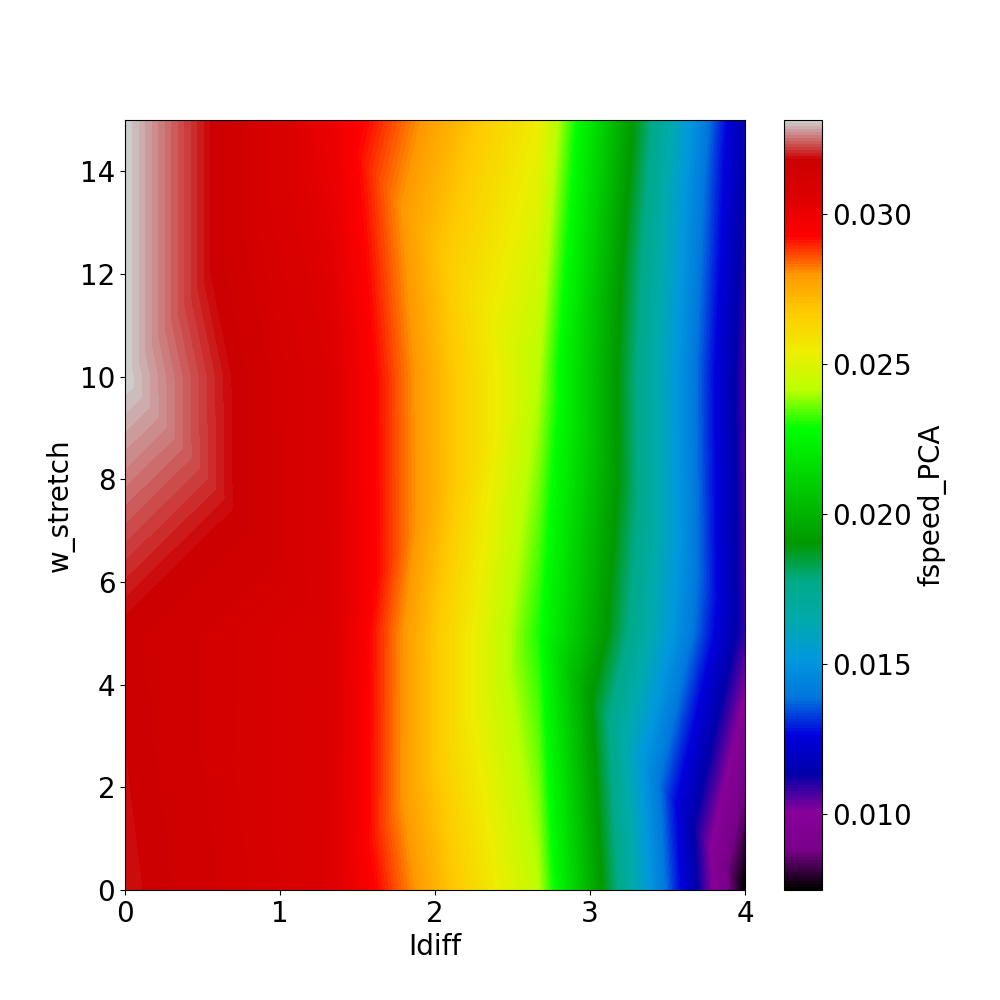
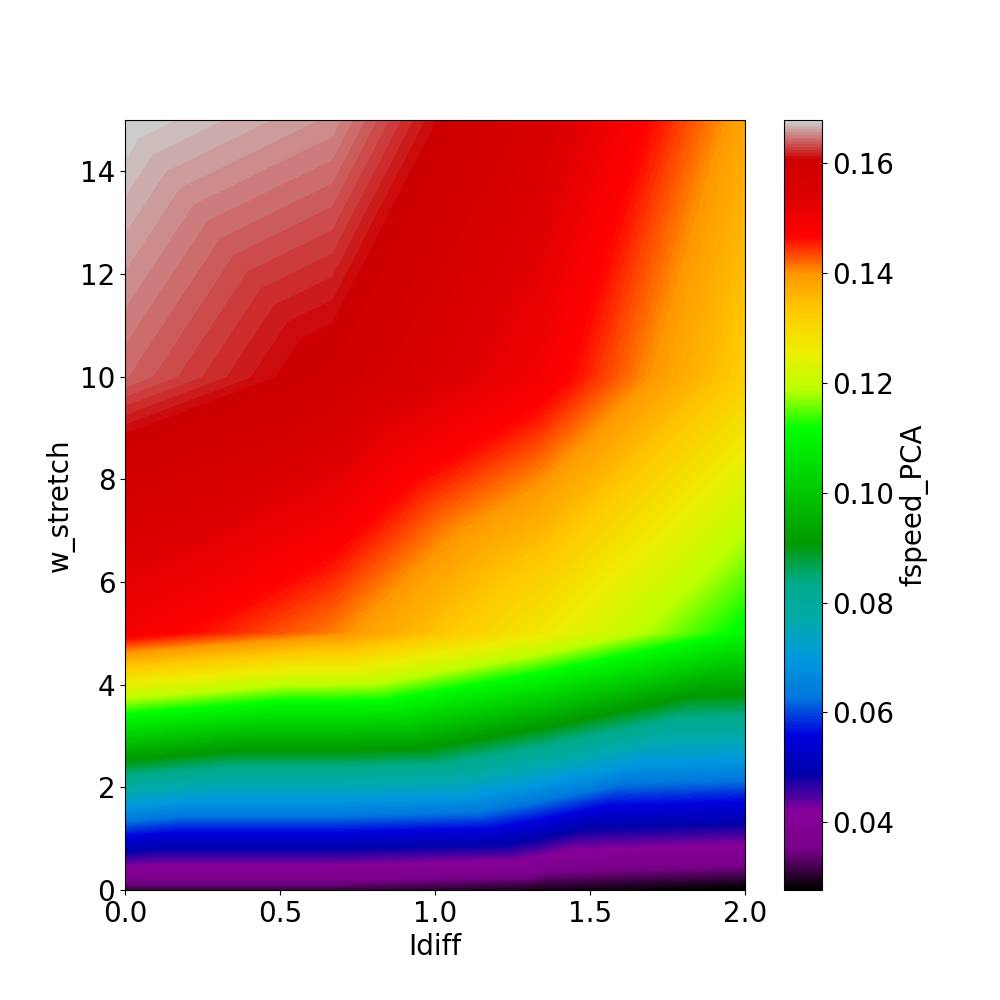
stretch = true and corrected plots

diff --git a/Project2/exercise7.py b/Project2/exercise7.py
@@ -19,9 +19,9 @@ def exercise7():
     
     log_path = './logs/exercise7/'
     os.makedirs(log_path, exist_ok=True)
-    I = 20
+    I = 30
     w_stretch_list= np.linspace(0, 15, 4)
-    Idiff_list = np.linspace(0, 4, 4)
+    Idiff_list = np.linspace(0, 2, 4)
     n_sim = 4
     pars_list = [
         SimulationParameters(
@@ -31,7 +31,6 @@ def exercise7():
             video_record=False,
             compute_metrics=3,
             w_stretch=gss,
-            stretch = False,
             return_network=True,
             Idiff = Id,
             n_desc = 8,
